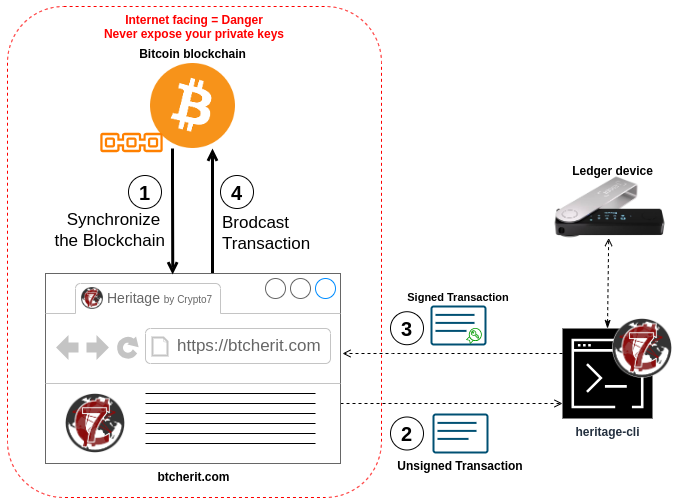
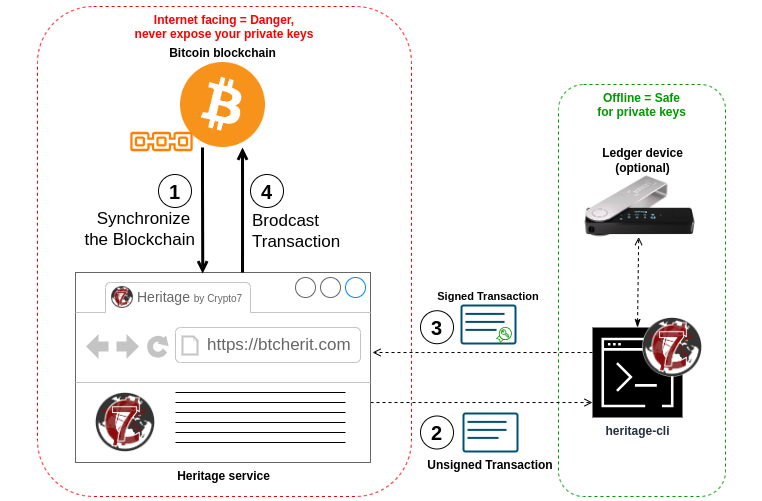
Updating the README to clarify the fact that we are in initial developement, thus unstable software Adding a short SECURITY.md Updating the interaction schema

diff --git a/README.md b/README.md
@@ -82,6 +82,21 @@ While I hope the [btcherit.com][heritage-wallet-service] service will help me pa
 
 <p align="right">(<a href="#top">back to top</a>)</p>
 
+<!-- STABILITY AND VERSIONING -->
+
+## Stability and versioning
+
+All the software provided (libs and bins) is working and can be safely used for Bitcoin's holdings.
+
+We are using [Semantic Versioning](https://github.com/semver/semver) (MAJOR.MINOR.PATCH) for the following crates:
+
+- btc-heritage
+- heritage-cli
+
+The other crates version are managed more "freely" (if at all) for now.
+
+Everything is still in the initial-development stage (version 0.x.x). While you can expect every new version to be in working order, you _SHOULD NOT_ expect the APIs or the CLI to be stable. That being said, new features and breaking changes will only happen on MINOR version increment, not on PATCH version increment.
+
 <!-- ROADMAP -->
 
 ## Roadmap
@@ -94,12 +109,13 @@ The roadmap is accurate regarding my immediate goals for the project.
 - [x] Add support for hardware wallets:
   - [x] Ledger ([ledger.com](https://www.ledger.com/))
   - [ ] ~~Trezor~~ (unfortunately Taproot script paths not supported currently) ([trezor.io](https://trezor.io/))
+- [ ] Capability for the CLI to use a user-provided Bitcoin Core or Electrum node instead of the service
 - [ ] Create a GUI Heritage wallet tool (see [btcherit.com][heritage-wallet-service], the online service born from this lib in the time being)
 - [ ] Add support for MultiSig N-of-M Heir to allow kind-of inheritance sharing
 - [ ] Add lightning support
 - [ ] Eliminate dependency to BDK
 
-See the [open issues](https://github.com/crypto7world/btc-heritage/issues) for a full list of proposed features (and known issues).
+Also consult the [open issues](https://github.com/crypto7world/btc-heritage/issues) for other proposed features and known issues.
 
 <p align="right">(<a href="#top">back to top</a>)</p>
 

diff --git a/SECURITY.md b/SECURITY.md
@@ -1,0 +1,11 @@
+# Security Policy
+
+## Supported CLI Versions
+
+Please see [Releases](https://github.com/crypto7world/btc-heritage/releases/). We recommend using the [most recently released version](https://github.com/crypto7world/btc-heritage/releases/latest).
+
+## Reporting a Vulnerability
+
+If you think there is a vulnerability in any of the binaries or libraries of this repo, please send vulnerability reports to <security@crypto7.world>.
+
+**Please do not file a public ticket** mentioning the vulnerability, as doing so could increase the likelihood of the vulnerability being used before a fix has been created, released and installed on the network.
